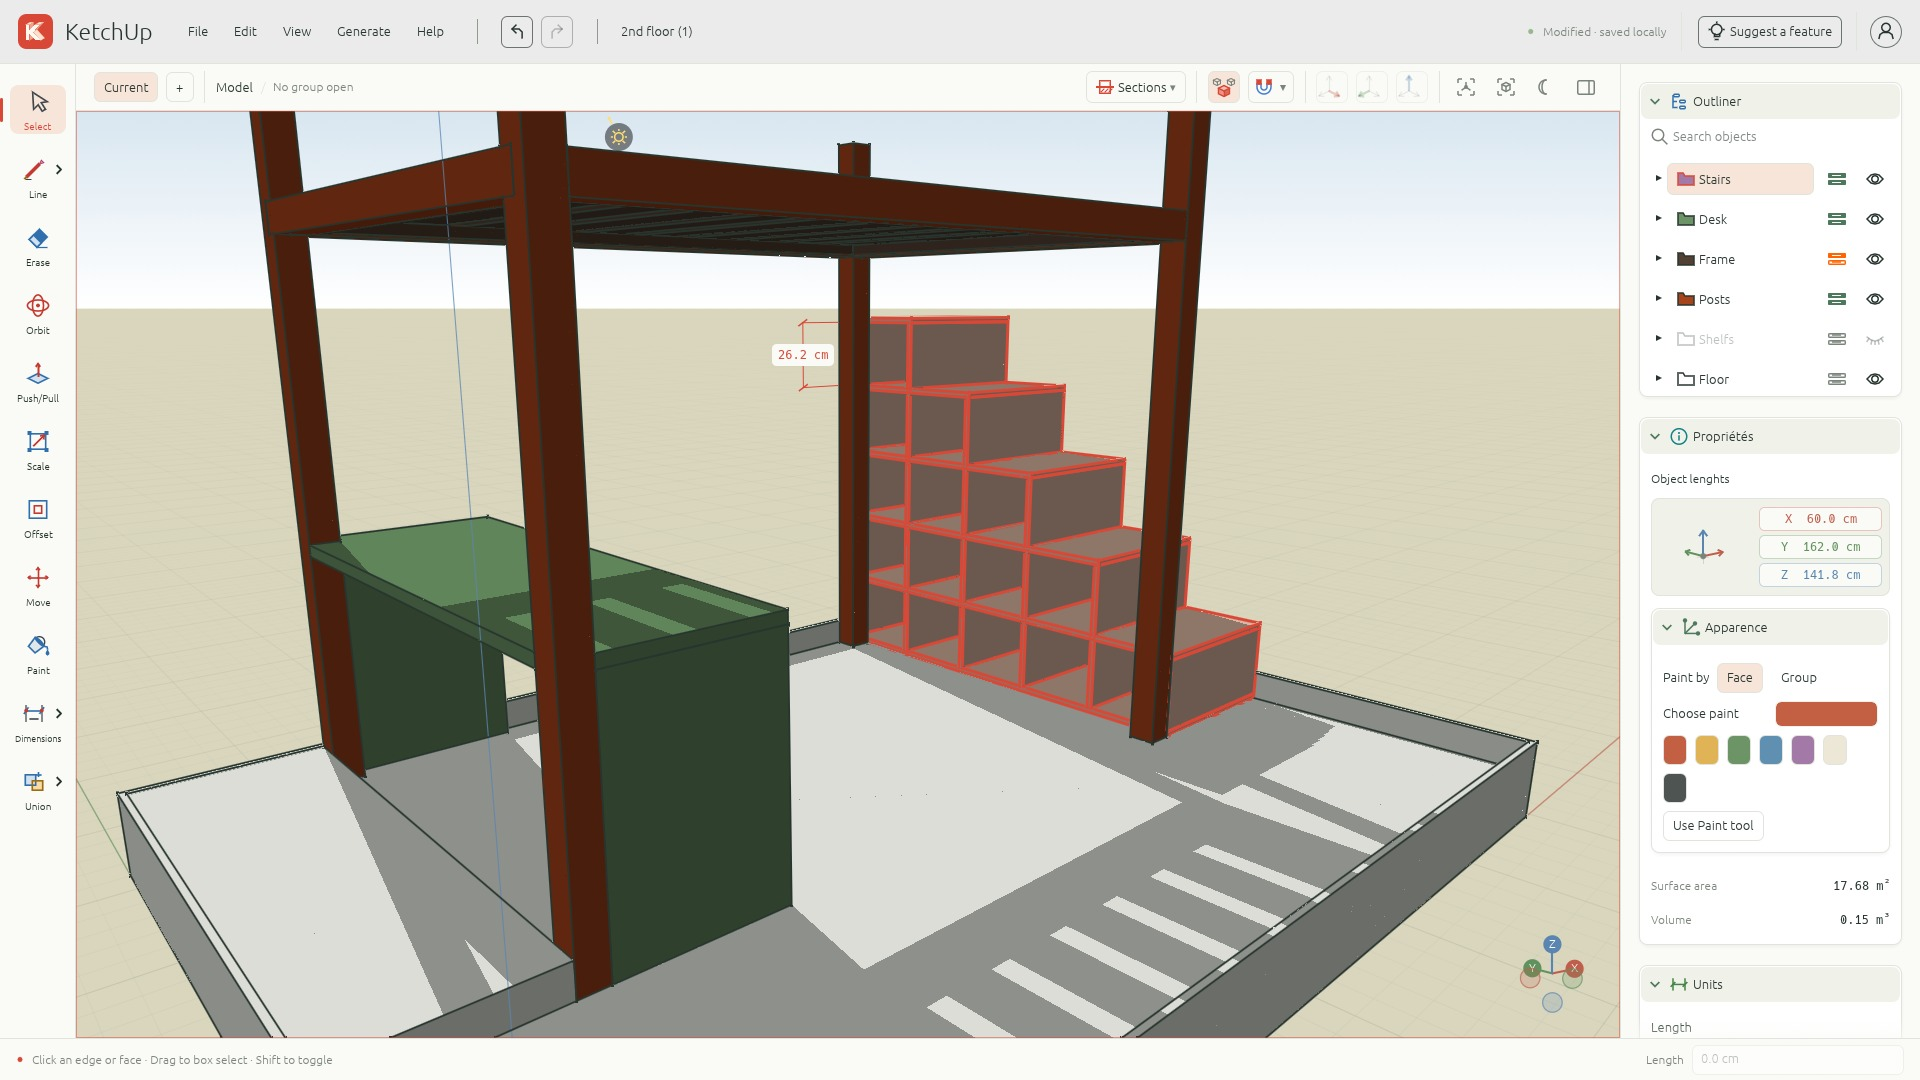
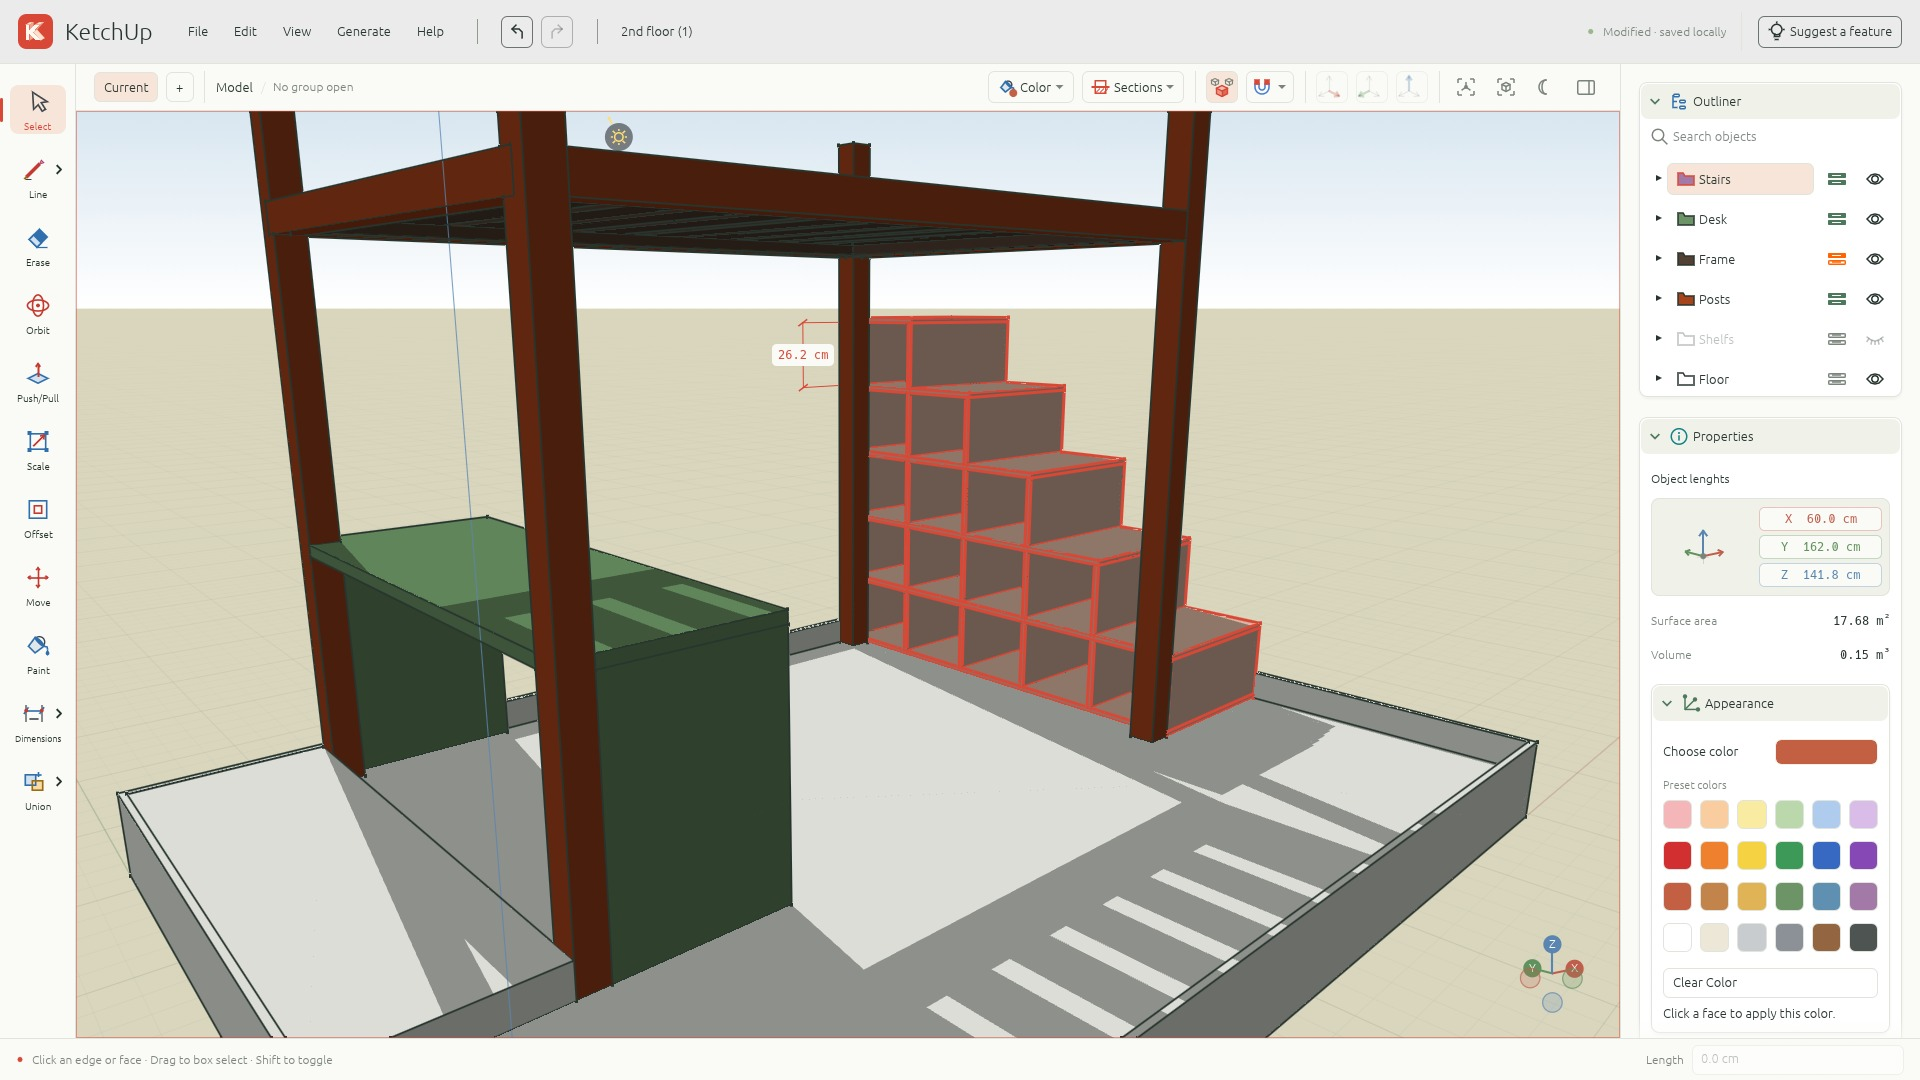
Release v0.6.0 and resolve release regression checks

diff --git a/crates/ketchup-app/src/app_tests.rs b/crates/ketchup-app/src/app_tests.rs
@@ -244,7 +244,11 @@ fn erase_and_freehand_hover_batch_motion_until_a_stroke_starts() {
             native_motion_burst(target - egui::vec2(100., 50.), target, 400),
             egui::Modifiers::NONE,
         );
-        assert_eq!(h.app.picking_preparations, 1, "{tool:?}");
+        assert!(
+            (1..=2).contains(&h.app.picking_preparations),
+            "{tool:?}: a motion burst must use bounded picking work across UI layout passes: {}",
+            h.app.picking_preparations,
+        );
         assert_eq!(h.app.hover, Some(edge), "{tool:?}");
         assert!(h.app.gesture.is_none());
         assert!(h.app.drawing.is_none());
@@ -586,6 +590,10 @@ fn perpendicular_preview_and_click_acquire_nearby_existing_edge() {
         .model
         .add_edge(DVec3::new(4.15, 1., 0.), DVec3::new(4.15, 7., 0.))
         .unwrap();
+    let group = h.app.doc.model.make_object(
+        &h.app.doc.model.selectable_entities(), false, "Connected edges",
+    ).unwrap();
+    assert!(h.app.doc.model.enter_object(group));
     h.key(Key::L);
     h.click(h.at(start));
     let target = DVec3::new(4.15, 3., 0.);
@@ -1382,12 +1390,18 @@ fn close_snapped_outline_then_select_and_delete_face_or_edge() {
     assert!(h.app.line_start.is_none());
     assert!(h.app.gesture.is_none());
     assert_eq!(h.app.tool, Tool::Line);
+    // Dismiss the completed root drawing's naming dialog first.
+    assert!(h.app.object_rename.is_some());
+    h.key(Key::Escape);
     // The next click starts a fresh line, just as it would after Escape.
     h.click(h.at(DVec3::new(6., 1., 0.)));
     assert_eq!(h.app.doc.model.edges.len(), 4);
     assert!(h.app.line_start.is_some());
     let face = *h.app.doc.model.faces.keys().next().unwrap();
     h.key(Key::Space);
+    let group = h.app.doc.model.parent(face).unwrap();
+    assert!(h.app.doc.model.enter_object(group));
+    h.app.selected.clear();
     h.click(h.at(DVec3::new(2., 1.5, 0.)));
     assert_eq!(h.app.selected, BTreeSet::from([face]));
     h.key(Key::Delete);
@@ -1417,6 +1431,10 @@ fn closing_a_shape_against_existing_geometry_stops_drawing_like_escape() {
     let c = DVec3::new(4., 3., 0.);
     h.app.doc.model.add_edge(a, b).unwrap();
     h.app.doc.model.add_edge(b, c).unwrap();
+    let group = h.app.doc.model.make_object(
+        &h.app.doc.model.selectable_entities(), false, "Outline",
+    ).unwrap();
+    assert!(h.app.doc.model.enter_object(group));
     h.app.set_tool(Tool::Line);
     h.click(h.at(c));
     h.click(h.at(DVec3::Y * 3.));
@@ -2323,7 +2341,15 @@ fn render_snapshots(state: eframe::egui_wgpu::RenderState, audit: bool) {
                             usize::from(rgba[offset..offset + 3] != before[offset..offset + 3]);
                     }
                 }
-                assert!(changed > 0, "{pair} did not change any viewport pixels");
+                if !fasteners::AVAILABLE && matches!(pair,
+                    "audit-fasteners" | "audit-fastener_preview" | "audit-fastener_face_handles"
+                ) {
+                    // Retained project settings must have no visual effect while
+                    // Automatic Fasteners is temporarily unavailable.
+                    assert_eq!(changed, 0, "{pair} exposed disabled fastener visuals");
+                } else {
+                    assert!(changed > 0, "{pair} did not change any viewport pixels");
+                }
                 eprintln!("DISPLAY_RENDER {pair} changed={changed}");
             }
         }
@@ -2724,11 +2750,12 @@ fn modeling_number(h: &mut Harness, value: &str) {
 #[test]
 fn push_pull_selected_single_face_group_without_opening_it() {
     let mut h = Harness::new();
-    let face = modeling_rectangle(&mut h);
+    modeling_rectangle(&mut h);
     let group = h.app.doc.model.make_object(
         &h.app.doc.model.selectable_entities(), false, "Panel",
     ).unwrap();
     h.app.selected = BTreeSet::from([group]);
+    let face = *h.app.doc.model.faces.keys().next().unwrap();
     h.key(Key::P);
     assert_eq!(h.app.selected_modeling_face(), Some(face));
     let before = h.app.doc.model.clone();
@@ -4768,7 +4795,7 @@ fn units_section_controls_change_measurements_without_editing_geometry() {
     h.ctx.style_mut_of(h.ctx.theme(), |s| s.animation_time = 0.);
     h.size.y = 2000.;
     let output = h.frame(vec![], egui::Modifiers::NONE);
-    assert!(text_position(&output, "Propriétés").y < text_position(&output, "Units").y);
+    assert!(text_position(&output, "Properties").y < text_position(&output, "Units").y);
     assert!(text_position(&output, "Units").y < text_position(&output, "Components").y);
     let model = h.app.doc.model.clone();
     for (current, choice) in [
@@ -4897,7 +4924,7 @@ fn sidebar_sections_collapse_and_display_controls_change_saved_settings() {
     for title in ["Components", "Tags", "Display"] {
         text_position(&output, title);
     }
-    h.click(text_position(&output, "Propriétés"));
+    h.click(text_position(&output, "Properties"));
     for _ in 0..30 {
         h.frame(vec![], egui::Modifiers::NONE);
     }
@@ -5229,7 +5256,7 @@ fn materials_section_assigns_catalog_material_as_an_undoable_document_edit() {
             wood_type: Default::default(),
         });
     let output = h.frame(vec![], egui::Modifiers::NONE);
-    h.click(text_position(&output, "Propriétés"));
+    h.click(text_position(&output, "Properties"));
     let output = h.frame(vec![], egui::Modifiers::NONE);
     assert!(text_position(&output, "Materials").y < text_position(&output, "Stock material").y);
     for label in ["Sanding", "Finishing", "Revert to defaults"] {
@@ -5370,7 +5397,7 @@ fn shared_finishing_editor_selects_products_for_defaults_and_objects() {
             h.app.general_settings.stock.wood.push(stock);
             h.app.selected = BTreeSet::from([id]);
             let output = h.frame(vec![], egui::Modifiers::NONE);
-            h.click(text_position(&output, "Propriétés"));
+            h.click(text_position(&output, "Properties"));
             Some(id)
         };
         // Let the newly opened settings modal complete its sizing pass.
@@ -5656,7 +5683,7 @@ fn materials_revert_button_clears_only_selected_treatment_overrides_and_is_undoa
     let catalog = h.app.general_settings.stock.clone();
     let customized = h.app.doc.model.clone();
     let output = h.frame(vec![], egui::Modifiers::NONE);
-    h.click(text_position(&output, "Propriétés"));
+    h.click(text_position(&output, "Properties"));
     let output = h.frame(vec![], egui::Modifiers::NONE);
     assert!(text_position(&output, "Revert to defaults").y > text_position(&output, "Finishing").y);
     assert!(
@@ -5915,7 +5942,12 @@ fn move_hover_previews_the_anchor_used_by_first_click() {
         h.app.update_pointer(pos);
         let snap = h.app.snap.expect("Move must preview an anchor before clicking");
         assert_eq!(snap.kind, kind);
-        assert!(snap.point.distance(point) < 1e-7);
+        // An edge position is reconstructed from f32 screen coordinates.
+        // Endpoints remain exact; continuous edge anchors round-trip to the cursor.
+        assert!(h.at(snap.point).distance(pos) < 0.001);
+        if kind == Inference::Endpoint {
+            assert_eq!(snap.point, point);
+        }
         assert!(h.app.modeling.is_none());
         h.app.begin_modeling(pos, &h.ctx);
         assert!(h.app.modeling.as_ref().unwrap().anchor.distance(snap.point) < 1e-7);

diff --git a/crates/ketchup-app/src/feature_audit_tests.rs b/crates/ketchup-app/src/feature_audit_tests.rs
@@ -23,6 +23,13 @@ pub(super) fn render_cases() -> Vec<RenderCase> {
         if value.is_boolean() {
             // Keys come from a static schema below to retain useful report names.
             let key = match key.as_str() {
+                "joinery_preview" => "joinery_preview",
+                "wood_joinery" => "wood_joinery",
+                "fasteners" => "fasteners",
+                "fastener_preview" => "fastener_preview",
+                "fastener_face_handles" => "fastener_face_handles",
+                "shadow_antialiasing" => "shadow_antialiasing",
+                "group_names" => "group_names",
                 "axes" => "axes",
                 "grid" => "grid",
                 "grid_auto_size" => "grid_auto_size",
@@ -160,6 +167,24 @@ pub(super) fn render_workspace(name: &str) -> KetchupApp {
     app.doc.camera.target = DVec3::new(1., 0., 1.);
     app.doc.camera.distance = 22.;
     match case.key {
+        "joinery_preview" | "wood_joinery" => {
+            app.doc.model = Model::default();
+            let a = ui_solid_box(&mut app.doc.model, DVec3::ZERO, DVec3::new(0.3, 0.1, 0.04));
+            let b = ui_solid_box(&mut app.doc.model, DVec3::new(0.25, 0., 0.), DVec3::new(0.55, 0.1, 0.04));
+            if case.key == "wood_joinery" {
+                app.doc.model.add_connection(ketchup_core::connections::Connection {
+                    members: [a, b],
+                    entry_face: None,
+                    operation: ketchup_core::connections::ConnectionOperation::Joinery(Default::default()),
+                }).unwrap();
+            } else {
+                app.selected = BTreeSet::from([a, b]);
+                app.open_joinery(&egui::Context::default());
+                app.doc.display.wood_joinery = true;
+            }
+            app.doc.camera.target = DVec3::new(0.275, 0.05, 0.02);
+            app.doc.camera.distance = 1.2;
+        }
         "grid_auto_size" | "grid_spacing" | "grid_infinite" | "grid_max_length" => {
             app.doc.display.grid = true;
             app.doc.display.grid_spacing = 0.25;
@@ -186,7 +211,7 @@ pub(super) fn render_workspace(name: &str) -> KetchupApp {
             app.doc.display.section_cuts = true
         }
         "profile_width" => app.doc.display.profiles = true,
-        "shadow_darkness" | "sun_angle" | "sun_elevation" => {
+        "shadow_antialiasing" | "shadow_darkness" | "sun_angle" | "sun_elevation" => {
             app.doc.display.shadows = true;
             // Shadows only fall on model faces. A receiving floor makes sun
             // elevation visibly change the shadow instead of merely leaving
@@ -266,7 +291,7 @@ fn options_workspace() -> Harness {
     for _ in 0..2 {
         h.frame(vec![], egui::Modifiers::NONE);
     }
-    for title in ["Propriétés", "Edge style", "Shadows", "Fog", "Environment"] {
+    for title in ["Properties", "Edge style", "Shadows", "Fog", "Environment"] {
         let output = h.frame(vec![], egui::Modifiers::NONE);
         h.click(sidebar_position(&h, &output, title));
         h.time += 1.;

diff --git a/crates/ketchup-app/src/offset_tool_tests.rs b/crates/ketchup-app/src/offset_tool_tests.rs
@@ -13,7 +13,7 @@ fn offset_single_face_groups_preserve_selection_context_cancel_and_undo() {
     for component in [false, true] {
         for nested in [false, true] {
             let mut h = Harness::new();
-            let face = modeling_rectangle(&mut h);
+            modeling_rectangle(&mut h);
             let inner = h
                 .app
                 .doc
@@ -29,6 +29,8 @@ fn offset_single_face_groups_preserve_selection_context_cancel_and_undo() {
             } else {
                 inner
             };
+            let face = *h.app.doc.model.faces.keys().next().unwrap();
+            let inner = h.app.doc.model.parent(face).unwrap();
             h.app.selected = BTreeSet::from([group]);
             h.app.set_tool(Tool::Offset);
             assert_eq!(h.app.selected_modeling_face(), Some(face));
@@ -62,13 +64,14 @@ fn offset_single_face_groups_preserve_selection_context_cancel_and_undo() {
 #[test]
 fn offset_does_not_auto_select_hidden_locked_or_multiple_group_faces() {
     let mut h = Harness::new();
-    let face = modeling_rectangle(&mut h);
+    modeling_rectangle(&mut h);
     let group = h
         .app
         .doc
         .model
         .make_object(&h.app.doc.model.selectable_entities(), false, "Panel")
         .unwrap();
+    let face = *h.app.doc.model.faces.keys().next().unwrap();
     h.app.selected = BTreeSet::from([group]);
     h.app.set_tool(Tool::Offset);
     for id in [group, face] {
@@ -204,10 +207,19 @@ fn offset_free_movement_keeps_vertical_and_tilted_face_planes() {
         h.click(h.at(u * 2. + v * 0.25));
         let anchor = h.app.modeling.as_ref().unwrap().anchor;
         let target = anchor + v * 0.6;
-        h.app.update_modeling(h.at(target));
+        let cursor = h.at(target);
+        let ray = h.app.doc.camera.ray(
+            dv(cursor - h.app.viewport.min), dv(h.app.viewport.size()),
+        );
+        // Reconstruct the expected plane hit from the actual f32 cursor;
+        // a tilted plane amplifies screen-coordinate rounding in world space.
+        let expected = ray.origin + ray.direction
+            * ((anchor - ray.origin).dot(normal) / ray.direction.dot(normal));
+        h.app.update_modeling(cursor);
         let edit = h.app.modeling.as_ref().unwrap();
-        assert!(edit.snap.unwrap().point.distance(target) < 1e-6);
-        assert!((edit.value - 0.6).abs() < 1e-6);
+        assert!(edit.snap.unwrap().point.distance(expected) < 1e-9);
+        assert!((edit.value - (expected - anchor).dot(edit.direction)).abs() < 1e-9);
+        assert!((edit.value - 0.6).abs() < 1e-5);
         assert!(
             edit.preview
                 .as_ref()

diff --git a/crates/ketchup-core/src/connections.rs b/crates/ketchup-core/src/connections.rs
@@ -649,7 +649,7 @@ mod tests {
         c.entry_face = Some(u64::MAX);
         assert!(!c.evaluate(&model).errors.is_empty());
         c.entry_face = None;
-        let ids = model.expand_entities(&BTreeSet::from([c.members[1]]));
+        let ids = model.selection_vertices(&BTreeSet::from([c.members[1]]));
         for id in ids {
             if let Some(v) = model.vertices.get_mut(&id) {
                 v.position.z += 0.1;
@@ -702,8 +702,8 @@ mod tests {
         assert!(evaluation.errors.is_empty());
         assert!(evaluation.placements[0].tip.z < evaluation.placements[0].head.z);
         c.members.swap(0, 1);
-        let entities = model.expand_entities(&BTreeSet::from([c.members[1]]));
-        for id in entities {
+        let vertices = model.selection_vertices(&BTreeSet::from([c.members[1]]));
+        for id in vertices {
             if let Some(v) = model.vertices.get_mut(&id) {
                 if v.position.z > 0.039 {
                     v.position.z = 0.06;
@@ -728,7 +728,7 @@ mod tests {
         assert!(after.head.distance(rotate(before.head)) < TOL);
         assert!((after.penetration - before.penetration).abs() < TOL);
         let (mut model, c) = pair();
-        let ids = model.expand_entities(&BTreeSet::from([c.members[1]]));
+        let ids = model.selection_vertices(&BTreeSet::from([c.members[1]]));
         for id in ids {
             if let Some(v) = model.vertices.get_mut(&id) {
                 v.position.z -= 0.005;

diff --git a/crates/ketchup-app/src/sidebar.rs b/crates/ketchup-app/src/sidebar.rs
@@ -1696,8 +1696,12 @@ mod preference_tests {
             assert_eq!(restored.general_settings.section, settings::Section::Rendering);
             restored.new_model(&ctx);
             assert_eq!(restored.doc.display.shadow_antialiasing, enabled);
-            restored.replace_project(Document::default(), None, &ctx);
-            assert_eq!(restored.doc.display.shadow_antialiasing, enabled);
+            // Opening a project restores that project's display settings;
+            // only new projects inherit the remembered display preference.
+            let mut project = Document::default();
+            project.display.shadow_antialiasing = !enabled;
+            restored.replace_project(project, None, &ctx);
+            assert_eq!(restored.doc.display.shadow_antialiasing, !enabled);
         }
         let old: DisplaySettings = serde_json::from_str("{}").unwrap();
         assert!(old.shadow_antialiasing);
@@ -3563,7 +3567,7 @@ impl InspectorSection {
     fn title(self) -> &'static str {
         match self {
             Self::Outliner => "Outliner",
-            Self::EntityInfo => "Propriétés",
+            Self::EntityInfo => "Properties",
             Self::Components => "Components",
             Self::Tags => "Tags",
             Self::Display => "Display",

diff --git a/crates/ketchup-core/src/surface_tests.rs b/crates/ketchup-core/src/surface_tests.rs
@@ -440,14 +440,16 @@ fn face_pick_and_surface_snap_target_visible_surface_not_hidden_edges() {
     ];
     outline(&mut model, &points);
     let face = *model.faces.keys().next().unwrap();
-    let cursor = camera.project(DVec3::Z * 2., size).unwrap();
+    // Exercise a surface hit away from the independently snappable face center.
+    let target = DVec3::new(0.75, 0.5, 2.);
+    let cursor = camera.project(target, size).unwrap();
     assert_eq!(
         selection::pick_entity(&model, &camera, size, cursor, 8.),
         Some(face)
     );
     let snap = infer(&model, &camera, size, cursor, None, None).unwrap();
     assert_eq!(snap.kind, Inference::OnFace);
-    assert!(snap.point.distance(DVec3::Z * 2.) < 1e-6);
+    assert!(snap.point.distance(target) < 1e-6);
     let ray = camera.ray(cursor, size);
     let hidden = ray.plane_z(0.).unwrap();
     model

diff --git a/crates/ketchup-app/src/sharing.rs b/crates/ketchup-app/src/sharing.rs
@@ -1920,10 +1920,12 @@ mod access_status_tests {
     use super::*;
     fn app() -> KetchupApp {
         let mut app = KetchupApp::with_document(Document::default(), None, true);
-        // Tests never contact a configured/personal server.
-        app.account.server.clear();
+        // Simulate an available server without contacting a personal server.
+        // A refresh can only attempt the unused loopback port.
+        app.account.server = "http://127.0.0.1:0".into();
+        app.account.server_reachable = true;
         app.doc.shared_project = Some(ketchup_core::SharedProject {
-            server: String::new(),
+            server: app.account.server.clone(),
             id: "a".repeat(48),
             revision: 1,
             server_updated_at: 100,

diff --git a/crates/ketchup-app/src/scale_tool.rs b/crates/ketchup-app/src/scale_tool.rs
@@ -88,7 +88,11 @@ impl KetchupApp {
         let Some(start) = camera.project(edit.anchor, size) else {
             return 1.;
         };
-        let free = !snap_to_grid && edit.snap.is_some_and(|snap| snap.kind == Inference::Plane);
+        let free = !snap_to_grid && edit.snap.is_some_and(|snap| {
+            snap.kind == Inference::Plane
+                || matches!(snap.kind, Inference::Axis(axis)
+                    if edit.scale_constraint == Some(AxisConstraint::Axis(axis)))
+        });
         let handle = [DVec3::X, DVec3::Y, DVec3::Z]
             .into_iter()
             .filter_map(|axis| {

diff --git a/crates/ketchup-core/src/move_inference_tests.rs b/crates/ketchup-core/src/move_inference_tests.rs
@@ -211,9 +211,9 @@ fn combined_alignment_refines_edges_and_faces_without_leaving_the_surface() {
         if surface {
             let points = [
                 DVec3::new(1., 2., 2.),
-                DVec3::new(5., 2., 2.),
-                DVec3::new(5., 6., 2.),
-                DVec3::new(1., 6., 2.),
+                DVec3::new(6., 2., 2.),
+                DVec3::new(6., 7., 2.),
+                DVec3::new(1., 7., 2.),
             ];
             for i in 0..4 {
                 model.add_edge(points[i], points[(i + 1) % 4]).unwrap();

diff --git a/crates/ketchup-app/src/joinery.rs b/crates/ketchup-app/src/joinery.rs
@@ -977,6 +977,9 @@ mod tests {
         let (mut app, ctx, members) = fixture();
         let group = app.doc.model.make_object(&BTreeSet::from(members), true, "Assembly").unwrap();
         assert!(app.doc.model.enter_object(group));
+        let members: [u64; 2] = app.doc.model.objects[&group].entities.iter()
+            .copied().collect::<Vec<_>>().try_into().unwrap();
+        app.selected = BTreeSet::from(members);
         app.open_joinery(&ctx);
         assert!(app.joinery.open);
         let model = app.doc.model.clone();

diff --git a/crates/ketchup-core/src/modeling_tests.rs b/crates/ketchup-core/src/modeling_tests.rs
@@ -66,6 +66,7 @@ fn directional_push_pull_preserves_displacement_and_stretches_existing_caps() {
                 .make_object(&model.selectable_entities(), false, "Panel")
                 .unwrap();
             assert!(model.enter_object(group));
+            let face = *model.faces.keys().next().unwrap();
             let delta = axis * distance;
             let cap = model.push_pull_along(face, delta).unwrap();
             let check = |model: &Model, displacement: DVec3| {

diff --git a/crates/ketchup-app/src/fasteners.rs b/crates/ketchup-app/src/fasteners.rs
@@ -812,6 +812,8 @@ mod tests {
     #[test]
     fn shared_pair_can_open_both_dialogs_while_awaiting_its_lease() {
         let (mut app, ctx, members) = fixture();
+        app.account.server = "http://127.0.0.1:0".into();
+        app.account.server_reachable = true;
         app.selected = BTreeSet::from(members);
         app.doc.shared_project = Some(ketchup_core::SharedProject {
             server: "https://sharing.example".into(),
